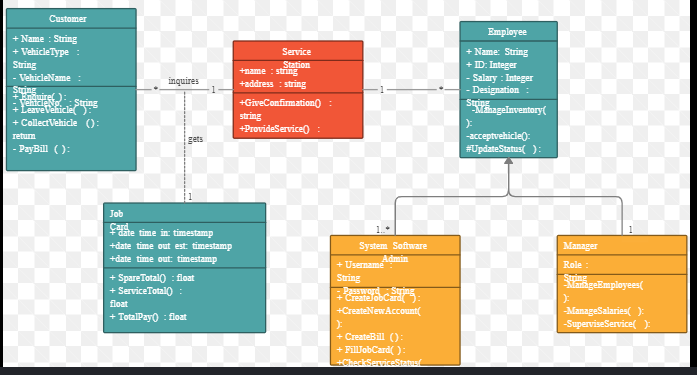
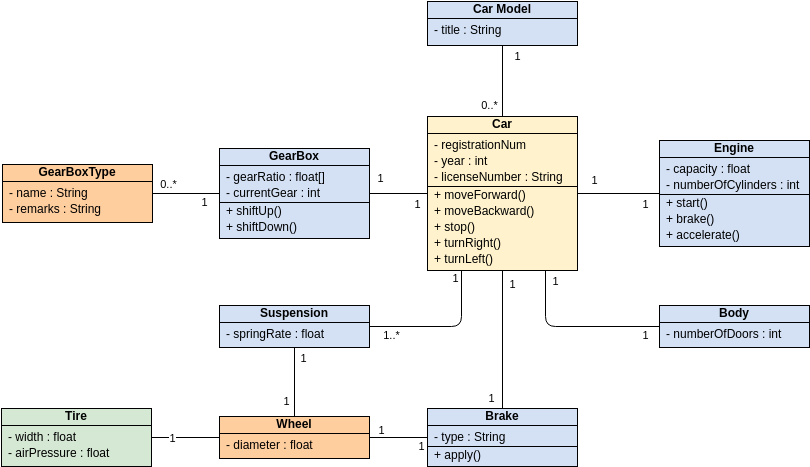
update working example image

diff --git a/README.md b/README.md
@@ -14,9 +14,9 @@ Two real, uncurated diagrams — not cherry-picked test fixtures.
 |---|---|
 | ![source](docs/examples/class-diagram-standard/source.png) | ![output](docs/examples/class-diagram-standard/output.svg) |
 
-*Source: [Automobile Service Station class diagram, Creately](https://creately.com/diagram/example/hezde9vg1/automobile-service-station-class-diagram)*
+*Source: [UML Class Diagram Example, Visual Paradigm](https://online.visual-paradigm.com/de/diagrams/templates/class-diagram/uml-class-diagram-example-car/)*
 
-All 6 classes, attributes and methods essentially complete, both inheritance relationships correctly identified — [full `.puml`](docs/examples/class-diagram-standard/output.puml).
+All 10 classes, attributes and methods essentially complete, both inheritance relationships correctly identified — [full `.puml`](docs/examples/class-diagram-standard/output.puml).
 
 ### A diagram using a notation the tool doesn't target
 
@@ -31,12 +31,11 @@ This one labels each box as an *instance* of a class (`TestDrive : DriveTrain`) 
 ## What the tool can do
 
 - Reads a PNG/JPG/screenshot of a **UML class diagram** and extracts classes, interfaces, abstract classes, stereotypes, attributes, methods, and visibility markers (`+`/`-`/`#`/`~`).
-- Identifies relationships and their kind — inheritance, realization, composition, aggregation, association, dependency — along with multiplicities and edge labels where shown.
-- Outputs clean, human-editable `.puml` text as the actual deliverable, not a picture. Optionally renders it to SVG, PNG, or PDF as a convenience.
+- **Identifies relationships and their kind** — inheritance, realization, composition, aggregation, association, dependency — along with multiplicities and edge labels where shown.
+- Outputs clean, **human-editable `.puml`** text as the actual deliverable, not a picture. Optionally **renders** it to SVG, PNG, or PDF as a convenience.
 - Caches every response locally, so re-running with `--reuse-cache` gets byte-identical output back instantly and for free. **Off by default**, deliberately: an ordinary repeat run pays for a fresh answer rather than silently replaying an old one, even if that old one was a fluke.
-- Flags relationships it's least confident about in a `review.md` sidecar, each with the exact `.puml` line to check (see the caveat below on how much to trust this).
-- Works as both a command-line tool and an importable Python library.
-- Costs nothing to try — the default model is free; a one-line override switches to a paid tier that costs a fraction of a cent per diagram if you want more consistent results.
+- Works as both a command-line tool and an **importable Python library**.
+- **Costs nothing to try** — the default model is free; a one-line override switches to a paid tier that costs a fraction of a cent per diagram if you want more consistent results.
 
 ## What the tool cannot do
 
